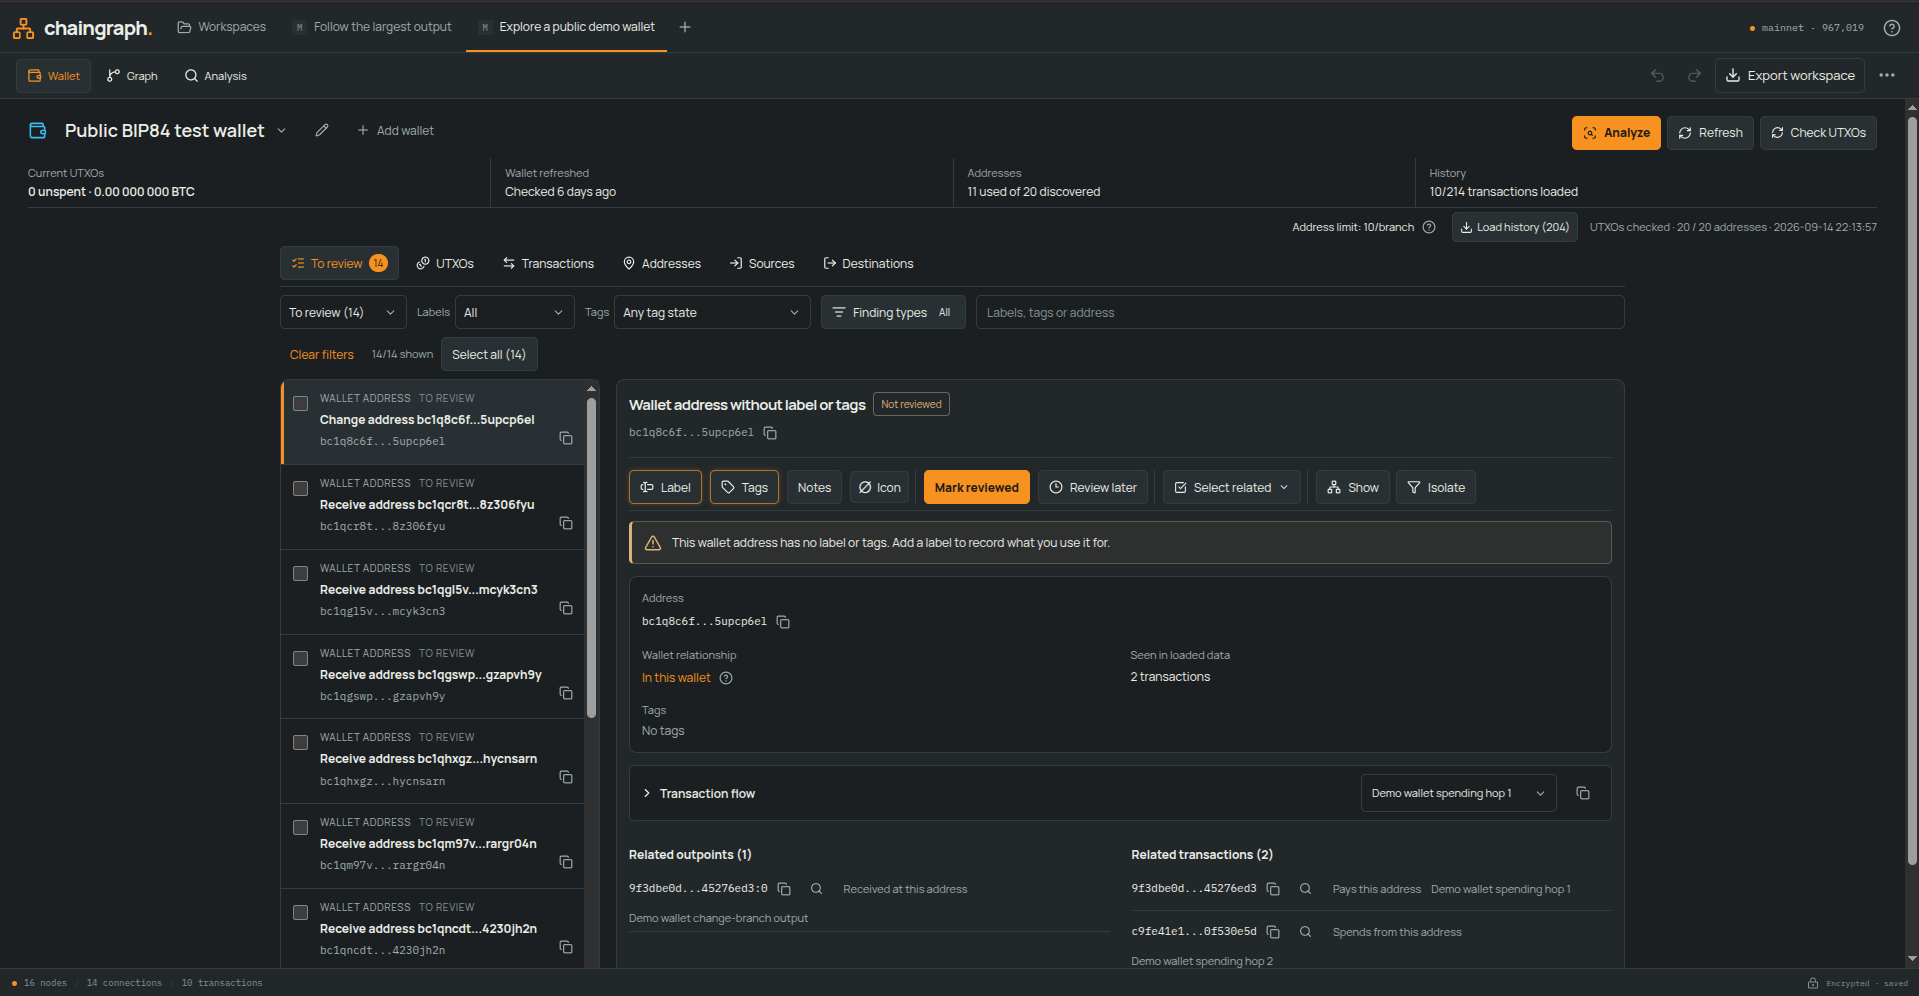
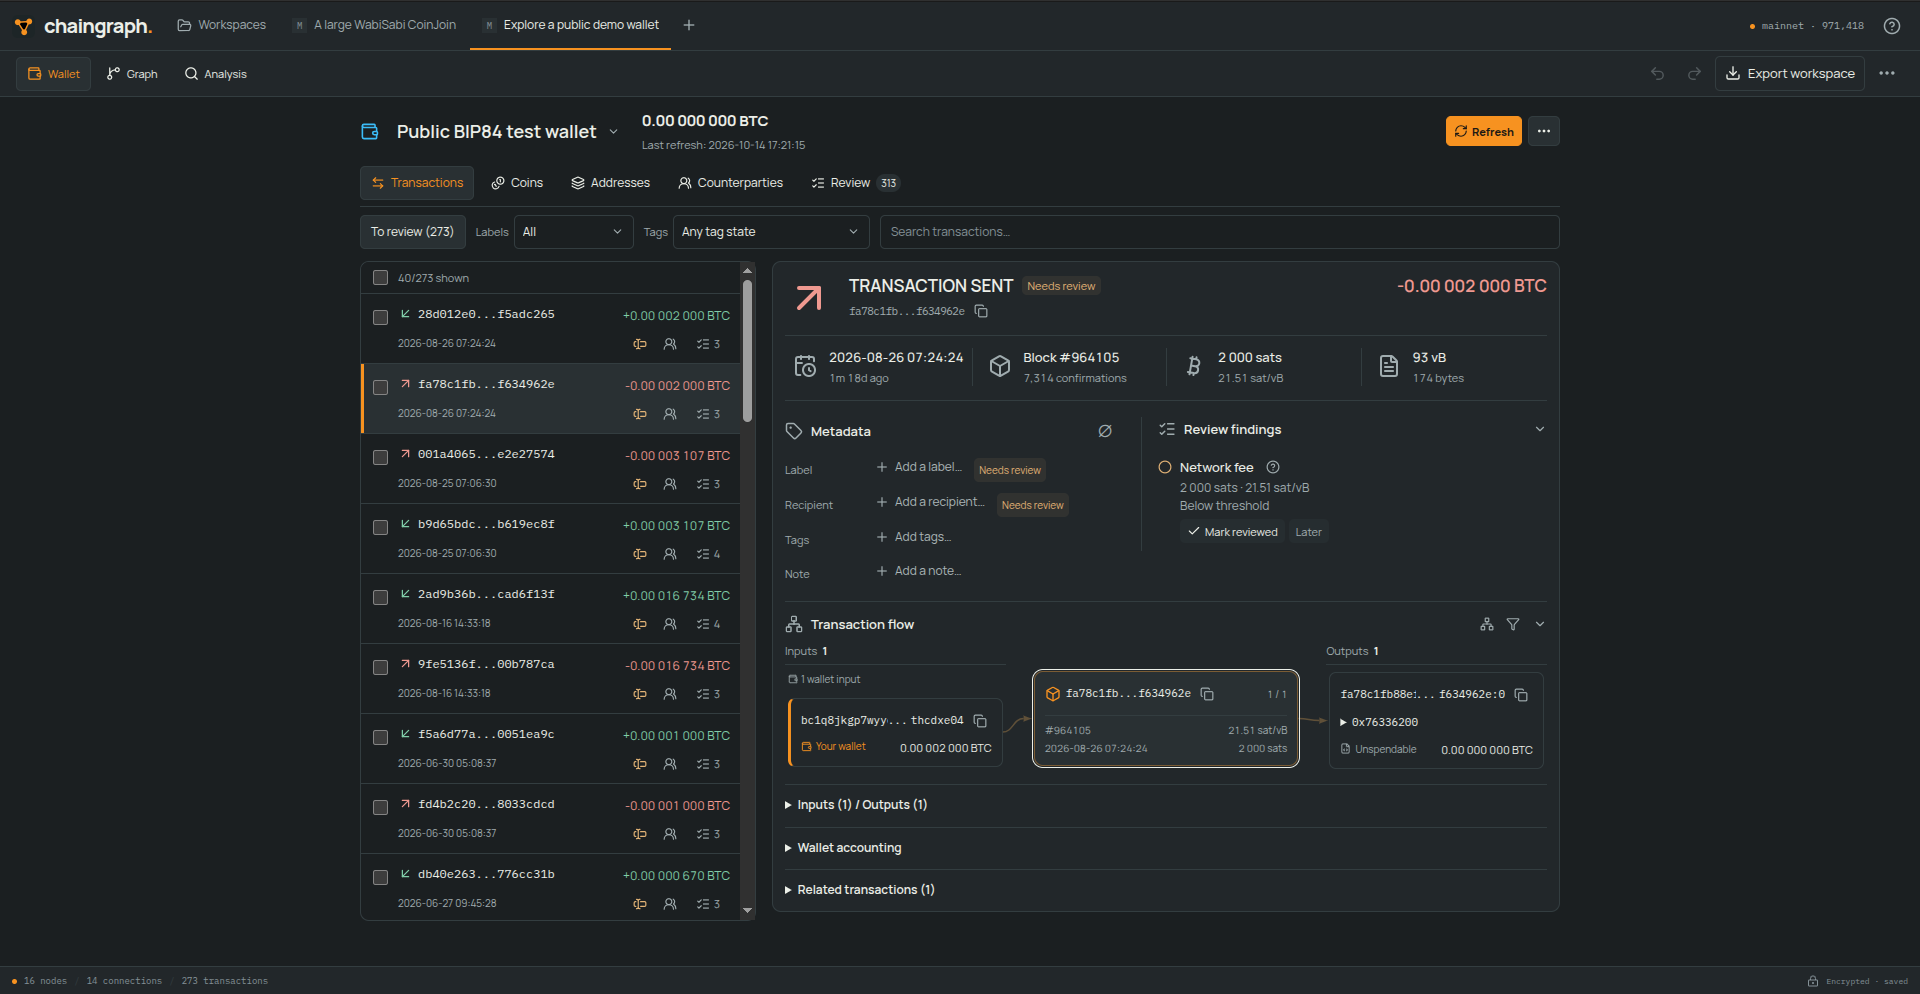
Describe initial release features and refresh wallet screenshot

diff --git a/CHANGELOG.md b/CHANGELOG.md
@@ -1,28 +1,79 @@
-# Changelog
+# Release notes
 
 ## [0.1.0] - Unreleased
 
-First public release of Chaingraph, a self-hosted, watch-only Bitcoin workbench.
+Chaingraph is a self-hosted, watch-only Bitcoin workbench for understanding your
+wallets and following activity on chain. Its first public release brings wallet
+review, transaction exploration and local analysis together in encrypted
+workspaces.
 
-- Encrypted workspaces (AES-256-GCM, PBKDF2-SHA256) saved in the browser with
-  public names, encrypted file export/import and automatic saving.
-- Watch-only wallets from account-level extended public keys on mainnet and
-  testnet4, with browser-side derivation, bounded scanning and refresh.
-- Wallet workbench with a review queue, UTXO checks, transactions, addresses,
-  one-hop sources and destinations, review decisions and batch editing.
-- Interactive 3D/flat transaction graph with explicit membership, grouped
-  input/output layout, filters, isolation, multi-selection and undo/redo.
-- Transaction view with exact-output navigation, previous-output evidence,
-  bounded parent loading, script and raw-transaction inspection.
-- Labels, notes, icons, bookmarks and colored tags, plus plaintext BIP329 label
-  import and export.
-- Seven local analysis tools with scopes, parameters, coverage reports and
-  evidence links.
-- Bounded connection scans for funding/spending paths, shared ancestors and
-  descendants, and reconnections.
-- Nine example workspaces from real mainnet and testnet4 transactions.
-- Stateless read-only Core/Electrum proxy serving one or both networks, optional
-  Core 31 spender-index lookup, container image and Compose deployment.
+### Explore and review
 
-Not included: a full indexer, custodial wallet, signing, spending, or
-multi-user hosting.
+- **Follow transactions.** Look up a transaction, address or output in a
+  chronologically ordered 3D or flat graph. Follow funding and spending links,
+  filter or isolate branches, and inspect address history. The transaction view
+  connects inputs and outputs to their transaction, with navigation to exact
+  outputs, script inspection and raw transaction details.
+- **Understand your wallets.** Import account-level extended public keys for
+  single-key legacy, nested SegWit, native SegWit or Taproot wallets. Browse
+  transactions, coins, addresses and counterparties, with wallet net changes,
+  dated balance observations and scan coverage. Manual and automatic refresh
+  check discovered activity through your own nodes.
+- **Work through reviews.** Describe transactions and used wallet addresses,
+  add sender or recipient context, and assess linked findings. Record what you
+  cannot identify, what needs no annotation and what to review later. Filter
+  outstanding work, edit several records together, and move between related
+  records and the graph without losing your browsing position.
+- **Investigate patterns and connections.** Seven local analysis tools examine
+  equal outputs, common inputs, address reuse, value flow and fees,
+  consolidation and fan-out, script types and imported-wallet intersections.
+  Findings link to their evidence. Bounded connection scans find funding and
+  spending paths, shared ancestors and descendants, and loops; add a discovered
+  path to the graph to explore it.
+
+### Organize and save
+
+- **Keep your own context.** Add labels, notes, colored tags, icons and bookmarks.
+  Name counterparties and associate them with specific received coins or
+  payment outputs. Annotations are shared across Wallet, Graph and Analysis.
+  Undo and redo edits while keeping accepted chain refreshes in the current
+  session.
+- **Exchange wallet metadata.** Import and export plaintext BIP329 files with
+  profiles for Sparrow, BTCPay Server, BlueWallet, Bitcoin Keeper and generic
+  files. Compare conflicting entries before applying an import and inspect the
+  export as a table or exact JSONL. Profiles handle labels, tags and transaction
+  notes according to the destination's supported fields.
+- **Save encrypted workspaces.** Workspaces save automatically in your browser.
+  Open several at once, lock them when finished, and export encrypted backups
+  to reopen in another browser. Saved records remain available without a chain
+  connection for inspection, annotation, local analysis and connection scans
+  within the loaded data.
+- **Start with public examples.** Nine bundled mainnet and testnet4 workspaces
+  include transaction snapshots and starter annotations. A separate static demo
+  build offers three prepared investigations without a chain backend. A guided
+  tour introduces the workbench controls.
+
+### Run on your own nodes
+
+Run Chaingraph from source or with Docker Compose against your Bitcoin Core node
+and Electrum server. Mainnet and testnet4 are supported, separately or together,
+with an isolated node/server pair for each network. Native installs require
+Node.js 24 or newer; the browser needs WebGL and a secure context such as
+localhost or HTTPS for encrypted storage.
+
+### Privacy and evidence limits
+
+- Chaingraph never accepts private keys or seeds and cannot sign or spend.
+  Wallet derivation, scanning, analysis and encryption happen in your browser.
+  Extended public keys stay there, while the read-only proxy and your upstream
+  services see the transaction IDs and script hashes you query. The proxy keeps
+  no database or lookup cache and is intended for one trusted user.
+- Workspace contents are encrypted; names remain public. Passwords are not
+  stored and cannot be recovered. Keep encrypted exports as backups. BIP329
+  files are plaintext metadata, not complete workspace backups.
+- Chain data is a snapshot, and searches have limits. Incomplete coverage does
+  not establish a complete wallet balance or the absence of activity. A missing
+  spending transaction does not prove an output is unspent.
+- Analysis patterns are hypotheses, and named counterparties are your
+  annotations. Neither proves ownership or identifies a person. Transaction
+  links do not establish which input funded a particular output.
